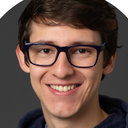
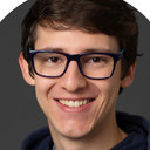
Edited the team page.

diff --git a/src/_includes/team/profile-preview.html b/src/_includes/team/profile-preview.html
@@ -1,17 +1,19 @@
-{% for item in teamMembers %}
-<div class="profilecontainertitle">
-<h4>{{ item.name }} - {{ site.brand }} {{ item.role }}</h4>
-</div>
-
-<div class="profilecontainer">
-<img src="{{ item.photo | prepend: site.baseurl }}" class="profile-photo" alt="{{ item.alt }}" height="300px" width="200px">
-
-{{ item.contribution }}
-</div>
-
+<div class="container mt-5">
 <div class="row">
-<a href="{{ item.profile | prepend: site.baseurl }}" class="{{ page.buttonStyle }}">View {{ item.shortname }}'s profile</a>
+{% for item in teamMembers %}
+<div class="col-sm-12 col-md-6 col-lg-6 d-flex flex-column align-items-center mb-4">
+<h4>{{ item.name }} - {{ item.role }}</h4>
+
+<img src="{{ '/assets/images' | prepend: site.baseurl }}{{ item.photo }}" alt="{{ item.alt }}" class="profile-pic img-fluid mb-3">
+
+
+<a href="{{ item.profile | prepend: site.baseurl }}" class="mb-3 {{ page.buttonStyle }}">View {{ item.shortname }}'s profile</a>
+
+<p>{{ item.contribution }}</p>
+
 </div>
 {% else %}
 <p>Currently, there are no members in this team.</p>
 {% endfor %}
+</div>
+</div>

diff --git a/src/_includes/global/tile-2.html b/src/_includes/global/tile-2.html
@@ -4,10 +4,10 @@
 </a>
 </{{ include.heading }}>
 
-{% if page.listOfIcons[loopIndex][0] == "" %}
-<img src="{{ '/assets/images/' | prepend: site.baseurl }}{{ page.listOfIcons[loopIndex][1] }}" aria-hidden="true" alt="{{ page.listOfIcons[loopIndex][1] }}" width="45px">
+{% if item.icon contains "." %}
+<img src="{{ '/assets/images/icons/' | prepend: site.baseurl }}{{ item.icon }}" aria-hidden="true" alt="{{ item.icon }}" width="45px">
 {% else %}
-<i class="{{ page.listOfIcons[loopIndex][0] }} fa-lg" aria-hidden="true"></i>
+<i class="{{ item.icon }} fa-lg" aria-hidden="true"></i>
 {% endif %}
 
       <p>{{ item.description }}</p>

diff --git a/src/assets/css/custom/_images.scss b/src/assets/css/custom/_images.scss
@@ -1,3 +1,20 @@
+.profile-pic-container {
+width: 150px;  /* Fixed width */
+height: 150px; /* Fixed height */
+border-radius: 50%; /* Make the image container circular */
+overflow: hidden; /* Ensure content does not overflow */
+display: flex;
+align-items: center;
+justify-content: center;
+}
+
+.profile-pic {
+    width: 150px; /* Set a fixed width */
+    height: 150px; /* Set a fixed height */
+    object-fit: cover; /* Ensure the image covers the area without distortion */
+    border-radius: 50%; /* Make the image circular */
+}
+
 .news-thumbnail {
 width: 100%;
 height: auto;

diff --git a/src/_includes/global/image-with-text.html b/src/_includes/global/image-with-text.html
@@ -1,0 +1,10 @@
+<div class="container mt-5">
+<div class="row align-items-center">
+<div class="col-sm-12 col-md-{{ include.left-column }}">
+<img src="{{ '/assets/images' | prepend: site.baseurl }}{{ include.image }}" alt="{{ include.alt }}" class="img-fluid">
+</div>
+<div class="col-sm-12 col-md-{{ include.right-column }}">
+<p>{{ include.text | markdownify }}</p>
+</div>
+</div>
+</div>

diff --git a/src/assets/css/custom/_general.scss b/src/assets/css/custom/_general.scss
@@ -14,16 +14,6 @@
       padding-right: 20px;
       padding-left: 15px;
   }
-  
-  .profilecontainer{
-	text-align: justify;
-	display: inline-flex;
-	gap: 20px;
-  }
-
-  .profilecontainertitle{
-	padding: 15px;
-  }
 
   .you-are-here {
      font-size: 1.25em;

diff --git a/src/about/index.md b/src/about/index.md
@@ -4,34 +4,50 @@ title: About us
 author: Daniel Hajas
 reviewer: Danielle Garratt
 date: 2022-08-27
-pitch: Lorem ipsum dolor sit amet, consectetur adipiscing elit, sed do eiusmod tempor incididunt ut labore et dolore magna aliqua. Nec ultrices dui sapien eget mi. Adipiscing elit duis tristique sollicitudin nibh sit amet.
+pitch: At Project27, we help disabled individuals, their co-workers, and their employers develop practical skills relevant to the jobs they are passionate about, unlocking the potential for personal and professional growth. We also co-design solutions that enhance social participation across the entire value chain. We combine for-profit practices with nonprofit missions to create positive outcomes in a sustainable way.
 licence: copyright
 buttonStyle: fg-general-vol
 backgroundStyle: bg-general-vol
-listOfIcons: [["", ""], ["", ""]]
 ---
-## About {{ site.brand }}
 
-{{ site.brand }} is the talent arm of {{ site.organisation }} ({{ site.org }}).
-We combine for-profit practices with nonprofit missions to create positive outcomes in a sustainable way.
+### Our vision
 
-The mission of {{ site.org }} is to 
-**develop skills that matter, and design solutions that work.**
-We believe that this mission will take us closer to our ultimate vision.
+We envision a world where everyone has the opportunity for social and economic participation, ensuring that disabled individuals are included and benefit from personal and professional growth.
 
-In the vision of {{ site.org }}, 
-**Researchers, businesses, and the community of blind or learning disabled people work together on solving accessibility challenges at every stage of design and development.**
+### Our mission
 
-### What we do
+Our mission is to create personalised opportunities for skills development and pathways for personal and professional growth in a safe environment for communities of blind and learning disabled individuals.
 
-1. **Sharing thoughts**: We share our lived experience of sight-loss, learning disability, and success, through our [blog.]({% link blog/index.md %})
-2. **Passive learning**: We enable people to learn about science and lifestyle, by creating accessible articles in the [{{ site.brand }} {{ site.product }}.]({% link guide/index.md %})
-3. **Active learning**: We promote active learning, by [getting volunteers involved]({% link volunteering/index.md %}) in building the [{{ site.brand }} {{ site.product }}.]({% link guide/index.md %})
-4. **Consultancy**: Anyone who needs time to talk things through with us can [book a support session]({% link support/index.md %}) for a session of consulting, tutoring, or mentoring.
+### Our values and community culture
 
-{% include global/buttonLink.html url="/about/content.html" label="Read more about our published content and services" %}
+The community culture of {{ site.org }} can be expressed in a single word. We promote 'CARE', referring to 'commitment, accessibility, respect, and engagement'.
 
-### Who we are
+{% capture values %}
+Our core values are:
+
+1. Growth, encompassing curiosity and self-development, leading to new opportunities of discovery and achievement.
+2. Sense of belonging, where everyone has a team member to go to for advice and mentorship.
+3. Structure, enabling community members to follow processes, track and recognise progress, build on solid foundations, and spot missing elements.
+4. Flow, referring to the ultimate experience of accessibility, barrier-free joy, creativity, and productivity, while engaging in a subject of passion, setting the right level of challenge. If this is a new concept to you, [watch this video on flow.](https://youtu.be/znwUCNrjpD4?si=-6k0xuaWMltD7rFH)
+{% endcapture %}
+
+{% include global/image-with-text.html left-column="6" right-column="6" text=values image="/general/values-word-cloud.png" alt="A word cloud of values printed in different font size, colour, and location. The largest words are growth, flow, sense of belonging. In smaller print, the words curiosity, self-development, and structure appear. In even smaller print, words like mentorship, or agility are shown." %}
+
+### Our history
+
+{{ site.org }} has evolved significantly since its inception in 2019. Initially conceived as an accessible resource for studying science subjects and practicing cooking skills, we quickly realised the value lay in the learning and networking opportunities during development. Our journey includes several key milestones:
+
+- **2019**: Conceptualisation of Project27 as an accessible resource.
+- **2021**: Collaboration with the MIT Visualisation Group, leading to new referrals for co-designing research projects in fields of accessible data visualisation, and self-advocacy.
+- **2022**: Shift in focus to the active learning and mentorship process, leading to a refined value proposition.
+- **March 2023**: Recognition at the London Business School with an innovation prize in the "investment-ready" category, for a research translation project under Project27 Solutions.
+- **July 2023**: Registration as a Community Interest Company (CIC), uniting our community, research, and innovation services, to leverage synergies between the two business arms through creating additional development pathways for our community members as co-design consultants.
+
+Currently, we are concentrating on developing the {{ site.brand }} value proposition, through stakeholder engagement, and aligning it with the resource needs and revenue streams associated with Project27 Solution activities.
+
+{% include global/buttonLink.html url="/about/history.html" label="Find out more about where exactly our adventure began" %}
+
+### Our founders
 
 We are Daniel and Danielle, a couple from Brighton, England.
 We wanted to learn, so we started developing {{ site.brand }}.
@@ -39,39 +55,10 @@ We live with disabilities, and we have a lot to share.
 
 {% include global/buttonLink.html url="/about/team/index.html" label="Learn more about our team" %}
 
-### Our vision at {{ site.brand }}
+### Our services
 
-Blind or learning disabled people get to live the lives they want to live,
-while they are acknowledged as productive members of society.
+We offer community services through our Project27 Skills portfolio, while our research and innovation services make up the Project27 Solutions portfolio.
 
-### Our mission at {{ site.brand }}
-
-Our mission is 
-to create personalised opportunities for skills development 
-in a safe environment 
-for communities of blind or learning disabled people.
-
-### Our values
-
-The culture at {{ site.brand }} is defined by four core values:
-
-1. Commitment
-2. Accessibility
-3. Respect
-4. Engagement
-
-{% include global/buttonLink.html url="/about/values.html" label="Read more about our values" %}
-
-### Our history
-
-Daniel wanted to collect his physics notes, and family recipes, in one place. 
-He set two conditions for this library:
-
-- notes must be accessible for blind readers, like himself; and
-- notes must provide the same user experience regardless what device it is viewed on.
-
-This quickly turned into an exciting challenge of web development.
-After Danielle joined the team, we realised that there are many [skills that matter to us.]({% link about/skills.md %})
-We wanted to get better at doing certain things, by building {{ site.brand }} bit by bit.
-This was always meant to be a private project.
-Then, we realised, we can help people, while they help us.
+{% assign home = site.data.main['Home'] %}
+{% assign dataFile = home['services'] %}
+{% include global/grid-generator-2.html heading="h4" %}

diff --git a/src/about/history.md b/src/about/history.md
@@ -1,0 +1,24 @@
+---
+layout: default
+title: Our history
+author: Daniel Hajas
+reviewer: Danielle Garratt
+date: 2022-08-29
+updated: 2023-02-17
+licence: copyright
+buttonStyle: fg-general-chap
+backgroundStyle: bg-general-chap
+pitch: This page records an archived story of how it all began. We've been through many milestones and our thinking has evolved based on discussions with our community. Nevertheless, we wanted to preserve the story of laying down the cornerstone of Project27.
+---
+
+Daniel wanted to collect his physics notes, and family recipes, in one place. 
+He set two conditions for this library:
+
+- notes must be accessible for blind readers, like himself; and
+- notes must provide the same user experience regardless what device it is viewed on.
+
+This quickly turned into an exciting challenge of web development.
+After Danielle joined the team, we realised that there are many [skills that matter to us.]({% link about/skills.md %})
+We wanted to get better at doing certain things, by building {{ site.brand }} bit by bit.
+This was always meant to be a private project.
+Then, we realised, we can help people, while they help us.

diff --git a/src/about/team/index.md b/src/about/team/index.md
@@ -3,13 +3,8 @@ layout: default
 title: Who we are?
 buttonStyle: fg-general-chap
 backgroundStyle: bg-general-chap
-listOfIcons: [["", ""], ["", ""]]
+pitch: We are a small but committed social enterprise with great friends and advisors. View who is in our core team, who gives us advice, and who are our community members.
 ---
-
-## {{ page.title }}
-
-We are a small but committed social enterprise with great friends and advisors.
-View who is in our core team, who gives us advice, and who are our community members.
 
 ### Our core team {#team}
 
